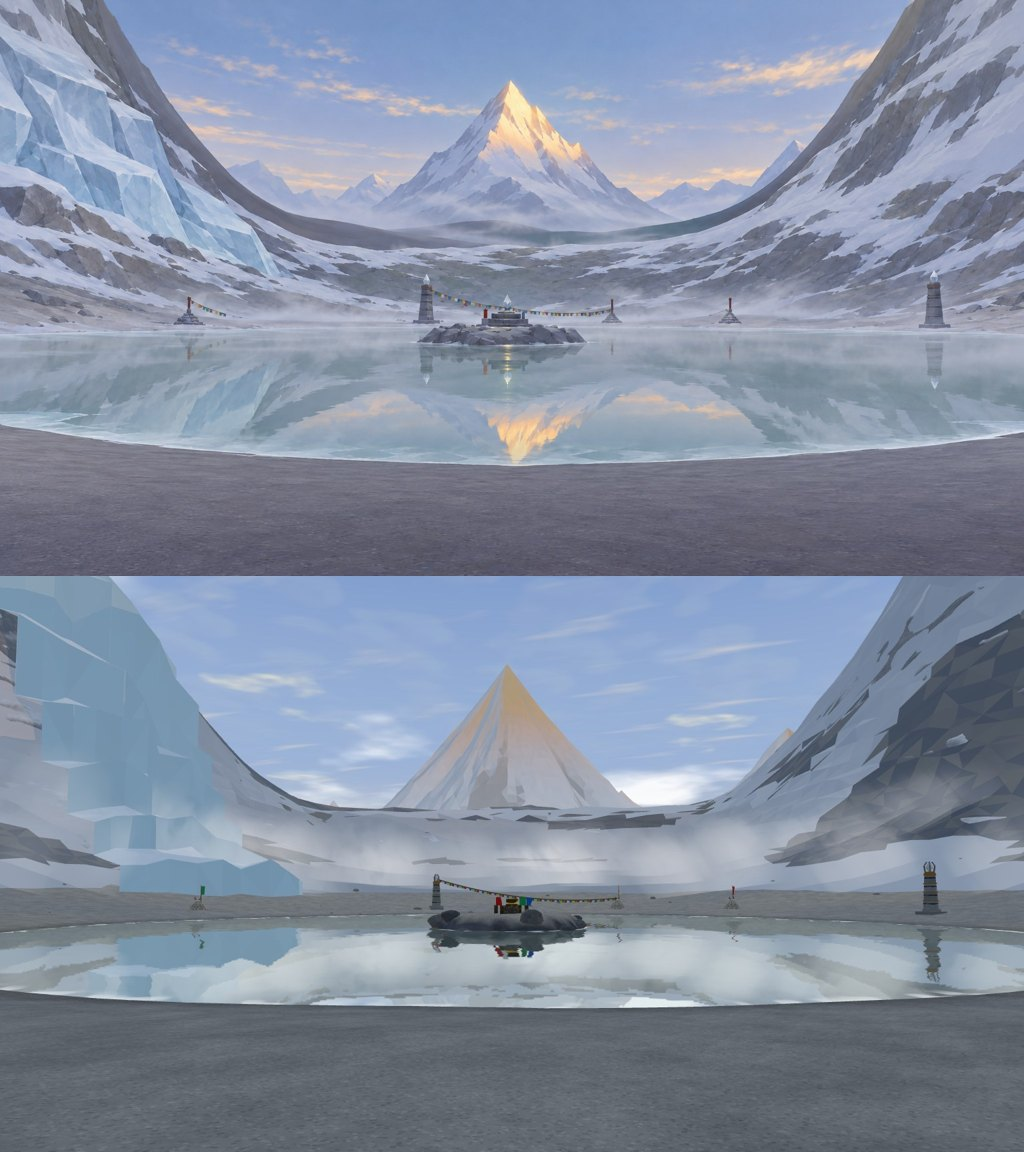
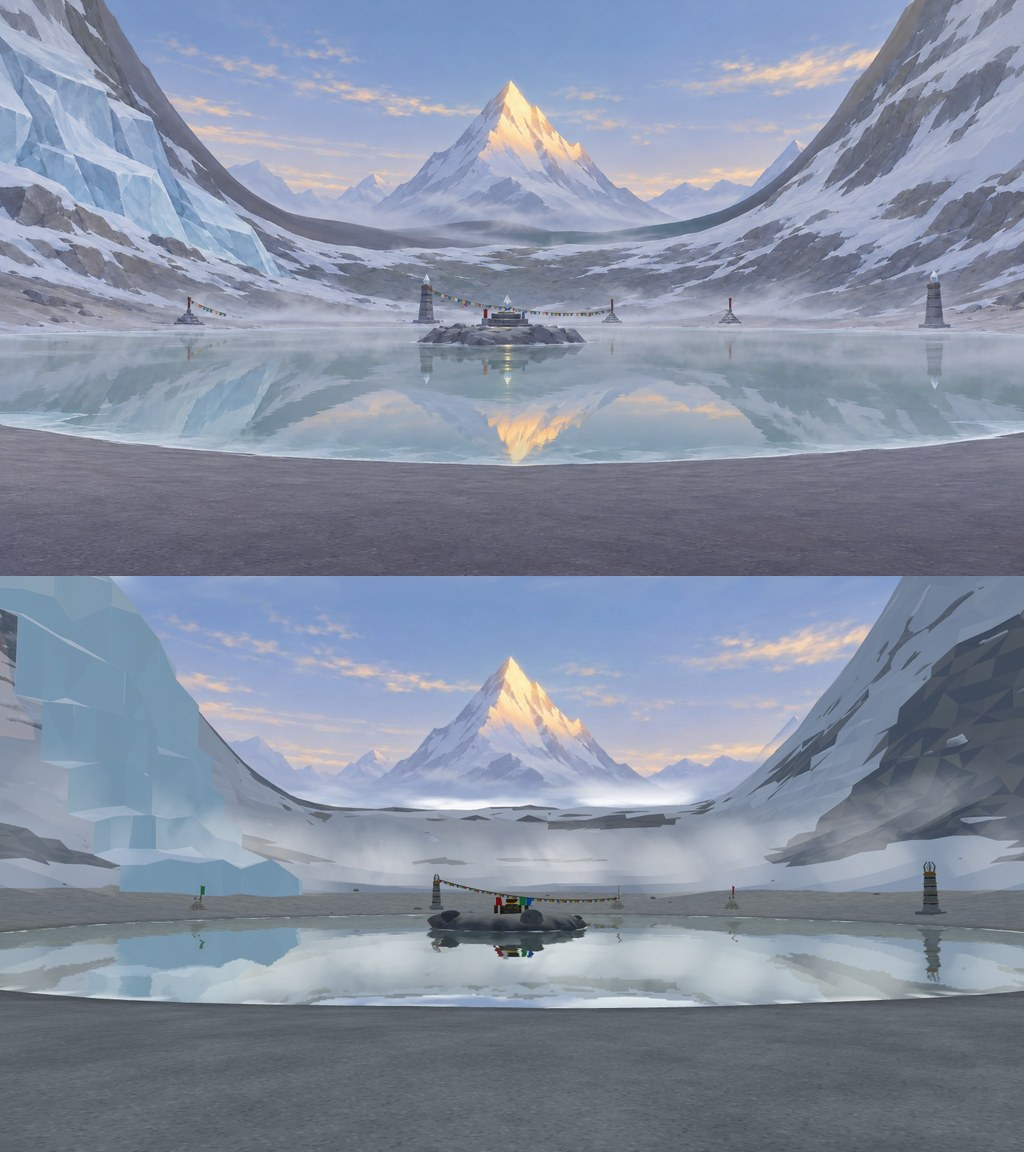
feat(plateau): 4-4 远山改成概念图绘景背景板——出生点逐像素对上概念图，东西岸换位不露缝
- farMatte.ts：按出生点相机把概念图上的远山和天反投影到 1.5 km 外的竖直面，不吃雾、不过色调映射，雷暴压暗
- tools/make_far_matte.py：裁远山、抠冰斗壁，两侧程序补画淡远山并各加宽 384 px
- 删掉 peak.ts 和神山方向的六座程序远山；天色取自画
- render_blockouts.mjs 加东西岸核对机位 4-4e / 4-4w；cdp.mjs 允许 file:// 页面读本地贴图

diff --git a/src/world/haizi/farMatte.ts b/src/world/haizi/farMatte.ts
@@ -1,0 +1,92 @@
+/**
+ * 4-4 神山海子的远山绘景（matte painting）：神山、两侧远峰和它们背后的天，直接用概念图上画好的那一块
+ * （docs/art/concepts/ch4-631/4-4_haizi_scene_v5.jpg，裁剪和抠透明见 tools/make_far_matte.py）。
+ *
+ * 远山走不到，又是画面 631 里的「一」——程序拼的山再怎么调也不像画，所以这里不再建模，贴一块绘景背景板：
+ * 概念图是在出生点白模上重绘的，相机参数已知（render_blockouts.mjs 的 VIEWS['4-4']），
+ * 把裁剪框里每个点按那台相机反投影到眼前 1.5 km 的竖直面上，背景板从出生点看就和概念图逐像素对齐；
+ * 可玩区只有半径 80 m，1.5 km 外的东西在湖岸上走动时视差不到 3°，看不出是一张板。
+ *
+ * 着色：画里已经有空气透视，所以不吃场景雾、不过色调映射；雷暴（WORLD_UNIFORMS.uStorm）时压暗去饱和，闪电时提亮。
+ * 湖面的平面反射会把它也画进去——概念图里湖中那道金色倒影就是它。
+ */
+import * as THREE from 'three';
+import { WORLD_UNIFORMS } from '../plateau/materials';
+
+export const MATTE = {
+  /** public/ 下的路径（运行时拼 BASE_URL） */
+  url: 'assets/environment/haizi/far_mountains_matte.webp',
+  /** 绘景在概念图（2048 × 1152）里的归一化范围：tools/make_far_matte.py 的 BOX 左右各加宽 PAD（可以超出 0..1，就是画框外的方向） */
+  u0: (256 - 384) / 2048, u1: (1792 + 384) / 2048, v0: 0, v1: 576 / 1152,   // 左右各加宽 384 px（make_far_matte.py 的 PAD）
+  /** 概念图那台相机：出生点眼睛、朝向（度）、竖直视角、画幅 */
+  eye: [-18, 3.5, 67.6] as const, yawDeg: -15, pitchDeg: 3, fovDeg: 50, aspect: 16 / 9,
+  /** 背景板离眼睛的水平距离（m）：在冰斗壁（440 m）和远景地形（1.4 km）之外 */
+  distance: 1500,
+  /** 网格细分：竖直面相对画面有一点仰角，分细一点，贴图和概念图逐点对得上 */
+  cols: 32, rows: 10,
+};
+
+export interface FarMatte {
+  mesh: THREE.Mesh;
+  /** 贴图加载完（截图脚本等它） */
+  ready: Promise<void>;
+}
+
+export function buildFarMatte(baseUrl: string): FarMatte {
+  const M = MATTE;
+  const cam = new THREE.PerspectiveCamera(M.fovDeg, M.aspect, 0.1, 10000);
+  cam.position.set(...M.eye);
+  cam.rotation.set(THREE.MathUtils.degToRad(M.pitchDeg), THREE.MathUtils.degToRad(M.yawDeg), 0, 'YXZ');
+  cam.updateMatrixWorld(true);
+  const eye = cam.position.clone();
+  const yaw = THREE.MathUtils.degToRad(M.yawDeg);
+  const fwd = new THREE.Vector3(-Math.sin(yaw), 0, -Math.cos(yaw));   // 水平朝前
+  const pos: number[] = [], uv: number[] = [], idx: number[] = [];
+  const p = new THREE.Vector3();
+  for (let r = 0; r <= M.rows; r++) for (let c = 0; c <= M.cols; c++) {
+    const s = c / M.cols, t = r / M.rows;                              // 贴图坐标（t 从上往下）
+    const u = M.u0 + (M.u1 - M.u0) * s, v = M.v0 + (M.v1 - M.v0) * t;  // 概念图里的位置
+    p.set(u * 2 - 1, 1 - v * 2, 0.5).unproject(cam).sub(eye).normalize();
+    const k = M.distance / p.dot(fwd);                                 // 射线打到眼前 distance 处的竖直面
+    pos.push(eye.x + p.x * k, eye.y + p.y * k, eye.z + p.z * k);
+    uv.push(s, 1 - t);
+  }
+  for (let r = 0; r < M.rows; r++) for (let c = 0; c < M.cols; c++) {
+    const a = r * (M.cols + 1) + c, b = a + 1, d = a + M.cols + 1, e = d + 1;
+    idx.push(a, d, b, b, d, e);
+  }
+  const g = new THREE.BufferGeometry();
+  g.setAttribute('position', new THREE.Float32BufferAttribute(pos, 3));
+  g.setAttribute('uv', new THREE.Float32BufferAttribute(uv, 2));
+  g.setIndex(idx);
+
+  const tex = new THREE.Texture();
+  tex.colorSpace = THREE.SRGBColorSpace;
+  tex.anisotropy = 4;
+  const mat = new THREE.MeshBasicMaterial({ map: tex, transparent: true, depthWrite: false, fog: false, toneMapped: false, side: THREE.DoubleSide });
+  mat.onBeforeCompile = (shader) => {
+    shader.uniforms.uStorm = WORLD_UNIFORMS.uStorm;
+    shader.uniforms.uFlash = WORLD_UNIFORMS.uFlash;
+    shader.fragmentShader = shader.fragmentShader
+      .replace('#include <common>', '#include <common>\nuniform float uStorm;\nuniform float uFlash;')
+      .replace('#include <map_fragment>', `#include <map_fragment>
+  // 雷暴：远山压暗、去饱和，沉进乌云里；闪电一亮
+  float gray = dot(diffuseColor.rgb, vec3(0.299, 0.587, 0.114));
+  diffuseColor.rgb = mix(diffuseColor.rgb, vec3(gray) * 0.42, uStorm * 0.85) + vec3(0.9, 0.85, 1.0) * uFlash * 0.18;`);
+  };
+  const mesh = new THREE.Mesh(g, mat);
+  mesh.name = 'far-mountains-matte';
+  mesh.renderOrder = -800;          // 透明队列里排在云天（−900）后面：盖住云；雾带（−5）、水面在它前面
+  mesh.frustumCulled = false;
+  mesh.visible = false;             // 贴图到了再显示
+  const ready = new Promise<void>((resolve) => {
+    if (typeof document === 'undefined') { resolve(); return; }
+    new THREE.ImageLoader().load(baseUrl + M.url, (img) => {
+      tex.image = img;
+      tex.needsUpdate = true;
+      mesh.visible = true;
+      resolve();
+    }, undefined, () => resolve());   // 加载失败：只是没有远山，场景照常
+  });
+  return { mesh, ready };
+}

diff --git a/src/world/haizi/spec.ts b/src/world/haizi/spec.ts
@@ -68,7 +68,8 @@ export const DAWN = {
   /** 地面色是雪地反上来的光：满是雪的冰斗里，立面和陡面不该发黑 */
   hemiSky: '#b4c4dc', hemiGround: '#a3a9b3', hemiIntensity: 1.9,
   fog: '#cdd6e1',
-  sky: { top: '#5a7ebf', mid: '#9bb3d7', horizon: '#ead8c2' },
+  /** 天顶 / 中段取自概念图的天（远山绘景的上沿渐隐进这片天，颜色要接得上） */
+  sky: { top: '#6587bf', mid: '#8aa2cc', horizon: '#d9cfc8' },
   /** 神山金顶：远山顶点色在 from 以上开始染、to 处最浓，只染朝太阳的那一面 */
   summit: { color: '#ffa443', from: 190, to: 470, strength: 1 },
   /** 云影压低：开阔的碎石岸上斑驳的明暗会给怪打掩护（composition.md 第 6 节第 4 条） */
@@ -99,20 +100,14 @@ export const SACRED_PEAK = { x: 360, z: -1390, height: 640, radius: 700 };
 /** 冰斗缺口的方位（从湖心看神山，弧度：0 = 北，顺时针为正） */
 export const PEAK_BEARING = Math.atan2(SACRED_PEAK.x, -SACRED_PEAK.z);
 
+// 神山方向（北偏东 ±35°）的远山全在绘景里（farMatte.ts），这里只留其他方向冰斗壁后面露出来的几座
 export const PEAKS: PeakSpec[] = [
   { x: SACRED_PEAK.x, z: SACRED_PEAK.z, height: SACRED_PEAK.height, radius: SACRED_PEAK.radius, ridges: 4, sharp: 1.95, seed: 21.4, snow: 0.42, green: 0 },
-  { x: -420, z: -1250, height: 420, radius: 620, ridges: 4, sharp: 1.35, seed: 22.1, snow: 0.38, green: 0 },
-  { x: 980, z: -1150, height: 460, radius: 640, ridges: 3, sharp: 1.4, seed: 23.7, snow: 0.36, green: 0 },
   { x: 1250, z: -100, height: 380, radius: 620, ridges: 4, sharp: 1.3, seed: 24.4, snow: 0.42, green: 0.1 },
   { x: -1250, z: -300, height: 420, radius: 680, ridges: 4, sharp: 1.3, seed: 25.2, snow: 0.4, green: 0.1 },
   { x: -1000, z: 1000, height: 360, radius: 680, ridges: 4, sharp: 1.25, seed: 26.6, snow: 0.45, green: 0.2 },
   { x: 900, z: 1100, height: 320, radius: 680, ridges: 5, sharp: 1.15, seed: 27.9, snow: 0.5, green: 0.3 },
   { x: 0, z: 1500, height: 260, radius: 720, ridges: 5, sharp: 1.0, seed: 28.3, snow: 0.7, green: 0.5 },
-  // 神山两侧更远、更矮的几座（概念图里从垭口看过去，主峰左右一层层退进雾里）
-  { x: -60, z: -1900, height: 360, radius: 560, ridges: 3, sharp: 1.6, seed: 29.1, snow: 0.3, green: 0 },
-  { x: 820, z: -1720, height: 400, radius: 600, ridges: 4, sharp: 1.5, seed: 30.4, snow: 0.3, green: 0 },
-  { x: 1180, z: -1500, height: 330, radius: 560, ridges: 3, sharp: 1.4, seed: 31.7, snow: 0.32, green: 0 },
-  { x: -420, z: -2050, height: 300, radius: 600, ridges: 4, sharp: 1.4, seed: 32.2, snow: 0.3, green: 0 },
 ];
 
 /**

diff --git a/src/world/haizi/scene.ts b/src/world/haizi/scene.ts
@@ -17,7 +17,7 @@ import { GrassField, buildStaticScatter } from '../plateau/scatter';
 import type { CollisionWorld } from '../plateau/walker';
 import { buildCliffs } from './cliffs';
 import { buildGlacier } from './glacier';
-import { buildSacredPeak } from './peak';
+import { buildFarMatte } from './farMatte';
 import { DAWN, FLAG_LINES, ISLAND, LAKE, PEAKS, PILLARS, PLACEMENTS, SACRED_PEAK, type PillarSpec } from './spec';
 import { buildFarTerrain, type HaiziTerrain } from './terrain';
 
@@ -327,6 +327,8 @@ export interface HaiziScene {
   grass: GrassField;
   scatter: ReturnType<typeof buildStaticScatter>;
   icons: MapIcon[];
+  /** 远山绘景加载完（截图脚本等它）；失败也会变 true，只是没有远山 */
+  farLoaded: boolean;
 }
 
 /**
@@ -345,10 +347,11 @@ export function buildHaizi(scene: THREE.Scene, terrain: HaiziTerrain, world: Col
   const sky = buildSky();
   dawnSky(sky);
   const skyLin = linearSky(sky);
-  // 神山单独做（peak.ts），远山列表里的那一座不再生成
+  // 神山和它两侧的远峰是一块绘景背景板（farMatte.ts，取自概念图），远山列表里的神山不再生成
   const mountains = buildMountains(PEAKS.filter(p => p.x !== SACRED_PEAK.x || p.z !== SACRED_PEAK.z));
   summitGlow(mountains);
-  scene.add(sky, skyLin, mountains, buildSacredPeak(), buildFarTerrain(terrain), buildCliffs(), buildGlacier());
+  const far = buildFarMatte(`${import.meta.env?.BASE_URL ?? '/'}`);
+  scene.add(sky, skyLin, mountains, far.mesh, buildFarTerrain(terrain), buildCliffs(), buildGlacier());
 
   const lake = new LakeSurface(terrain, reflectW, reflectH);
   // 反射那一遍换成线性色的天空，渲染完换回来
@@ -385,5 +388,7 @@ export function buildHaizi(scene: THREE.Scene, terrain: HaiziTerrain, world: Col
   scene.add(scatter.group);
   const grass = new GrassField(terrain, occupied);
   scene.add(grass.group);
-  return { sky, lake, pillars, conductors, anim, flags, grass, scatter, icons };
+  const out: HaiziScene = { sky, lake, pillars, conductors, anim, flags, grass, scatter, icons, farLoaded: false };
+  void far.ready.then(() => { out.farLoaded = true; });
+  return out;
 }

diff --git a/docs/art/concepts/ch4-631/tools/make_far_matte.py b/docs/art/concepts/ch4-631/tools/make_far_matte.py
@@ -1,0 +1,121 @@
+"""4-4 神山海子的远山绘景：从概念图裁出远山那一块（带画好的天），两侧冰斗壁和谷底抠成透明，上沿渐隐。
+    python docs/art/concepts/ch4-631/tools/make_far_matte.py
+输出 public/assets/environment/haizi/far_mountains_matte.webp（带透明通道）。
+抠掉的冰斗壁和左右各加宽的 PAD 补画成天（按行取画里的天色）和接着往两边走的淡远山（照画里两侧远峰的样子程序画）：玩家在湖岸上换位置时近处的 3D 冰斗壁和远处背景板错开，边和抠掉的地方也不会露缝。
+裁剪框（概念图像素）和出生点相机一起决定背景板在世界里的位置：src/world/haizi/farMatte.ts 的 MATTE 常量要和这里的 BOX 一致。
+"""
+from pathlib import Path
+
+import numpy as np
+from PIL import Image, ImageDraw, ImageFilter
+from scipy.ndimage import gaussian_filter
+
+ROOT = Path(__file__).resolve().parents[5]
+SRC = ROOT / "docs/art/concepts/ch4-631/4-4_haizi_scene_v5.jpg"
+OUT = ROOT / "public/assets/environment/haizi/far_mountains_matte.webp"
+BOX = (256, 0, 1792, 576)            # 概念图 2048×1152 里的像素
+# 保留区（裁剪区像素）：两侧冰斗壁山脊线以上、山脚雾带以上。描线往天空那侧收了几个像素，画里的深色山脊不会在 3D 冰斗壁上方露一条边
+KEEP = [(0, 0), (0, 74), (86, 204), (152, 302), (220, 376), (306, 420), (424, 436), (768, 446), (1100, 438), (1246, 392),
+        (1324, 326), (1392, 260), (1458, 166), (1536, 58), (1536, 0)]
+
+
+PAD = 384                            # 左右各加宽这么多像素（概念图像素）：换个位置看，背景板的边也藏在冰斗壁后面
+HORIZON = 446                        # 远山山脚（雾带）在裁剪区里的行
+
+
+def fill_sky(rgb: np.ndarray, keep: np.ndarray) -> np.ndarray:
+    """抠掉和加宽的地方补天：保留区的颜色做归一化卷积往外延（横向拉得远、竖向只拉几个像素——天和云都是横着走的），
+    由细到粗叠：贴着保留区的地方接上画里那一片的颜色，离得远的地方是整行的平均天色。"""
+    h, W, _ = rgb.shape
+    est = None
+    for sx, sy in ((1200, 12), (420, 9), (160, 6), (60, 4), (20, 3)):
+        den = gaussian_filter(keep, (sy, sx), mode="nearest")
+        num = np.stack([gaussian_filter(rgb[..., c] * keep, (sy, sx), mode="nearest") for c in range(3)], -1)
+        cur = num / np.maximum(den, 1e-6)[..., None]
+        if est is None:
+            est = np.where((den > 1e-4)[..., None], cur, np.nan)
+            continue
+        wgt = np.clip(den / 0.3, 0, 1)[..., None]
+        est = est * (1 - wgt) + cur * wgt
+    # 山脚往下没有保留区的行：用上面最后一行
+    for y in range(1, h):
+        bad = np.isnan(est[y, :, 0])
+        est[y, bad] = est[y - 1, bad]
+    return np.nan_to_num(est, nan=200.0)
+
+
+def value_noise(shape: tuple[int, int], cell: int, seed: int) -> np.ndarray:
+    """0..1 的平滑噪声（随机格子双三次放大）"""
+    rng = np.random.default_rng(seed)
+    h, w = shape
+    g = rng.random((h // cell + 3, w // cell + 3)).astype(np.float32)
+    im = Image.fromarray((g * 255).astype(np.uint8)).resize(((w // cell + 3) * cell, (h // cell + 3) * cell), Image.BICUBIC)
+    return np.asarray(im).astype(np.float32)[:h, :w] / 255
+
+
+def ranges(sky: np.ndarray) -> np.ndarray:
+    """冰斗壁后面接着往两边走的远山：照画里两侧远峰的样子——尖顶、宽缓的山肩、淡紫白、右坡受光偏暖、左坡背光偏冷、
+    山脚没进雾里、雾很重（反差比主峰低得多）。两层：远的一层矮、雾重；近的一层高一点。只用在抠掉和加宽的地方（保留区里是原画）。"""
+    h, W, _ = sky.shape
+    X = np.arange(W, dtype=np.float32) - PAD              # 裁剪区坐标
+    Y = np.arange(h, dtype=np.float32)[:, None]
+    out = sky.copy()
+    rng = np.random.default_rng(44)
+    lit, shade = np.array([236, 229, 232], np.float32), np.array([182, 189, 212], np.float32)
+    mist = np.array([212, 217, 231], np.float32)
+    streak = value_noise((h, W), 14, 8)                       # 大块的雪坡 / 岩脊明暗
+    # 一座座山单独画、由远到近叠（前面的挡后面的），山脊线从峰尖斜着往下走（受光坡 / 背光坡的分界），不是一条竖线
+    peaks = []
+    for layer, (n, tops, haze) in enumerate([(8, (338, 404), 0.6), (6, (268, 350), 0.4)]):
+        for side in (0, 1):
+            lo, hi = ((-PAD - 80, 240) if side == 0 else (1260, 1536 + PAD + 80))
+            for px in rng.uniform(lo, hi, n // 2):
+                peaks.append((layer, px, rng.uniform(*tops), rng.uniform(0.85, 1.25, 2), rng.uniform(0.3, 0.5, 2),
+                              rng.uniform(30, 60), haze + rng.uniform(-0.05, 0.05), rng.uniform(-0.45, 0.45), rng.integers(1 << 30)))
+    for layer, px, top, s1, s2, knee, haze, rd, seed in peaks:
+        d = np.abs(X - px)
+        sl = np.where(X < px, s1[0], s1[1]); sh = np.where(X < px, s2[0], s2[1])
+        yl = top + np.where(d < knee, d * sl, knee * sl + (d - knee) * sh)     # 尖顶一段陡，往下是缓的山肩
+        yl = yl + (value_noise((1, W), 18, int(seed % 997))[0] - 0.5) * 10 * np.clip(d / 25, 0, 1)   # 山脊线上的小峰，峰尖不动
+        below = (Y >= yl[None, :]) & (Y < HORIZON + 40)
+        if not below.any():
+            continue
+        xb = px + (Y - top) * rd + (value_noise((h, 1), 20, int(seed % 991))[:, :1] - 0.5) * 14   # 主山脊往下的走向
+        t = np.clip((X[None, :] - xb) / 5 + 0.5, 0, 1)[..., None]                               # 右坡受光
+        face = (shade * (1 - t) + lit * t) * (0.96 + 0.07 * streak[..., None])
+        foot = np.clip((Y - (HORIZON - 80)) / 80, 0, 1)[..., None]     # 山脚没进雾
+        body = face * (1 - foot) + mist * foot
+        body = body * (1 - haze) + sky * haze
+        out = np.where(below[..., None], body, out)
+    return np.asarray(Image.fromarray(out.clip(0, 255).astype(np.uint8)).filter(ImageFilter.GaussianBlur(1.0))).astype(np.float32)
+
+
+def main() -> None:
+    im = Image.open(SRC).convert("RGB").crop(BOX)
+    w, h = im.size
+    mask = Image.new("L", (w, h), 0)
+    ImageDraw.Draw(mask).polygon(KEEP, fill=255)
+    rgb = np.asarray(im).astype(np.float32)
+    # 保留区往里收 14 px 再羽化：画里冰斗壁那道深色山脊线不渗进来；取色只用往里收 16 px 的像素
+    soft = mask.filter(ImageFilter.MinFilter(29)).filter(ImageFilter.GaussianBlur(6))
+    inner = mask.filter(ImageFilter.MinFilter(33))
+    W = w + 2 * PAD
+    src = np.zeros((h, W, 3), np.float32); src[:, PAD:PAD + w] = rgb
+    kin = np.zeros((h, W), np.float32); kin[:, PAD:PAD + w] = np.asarray(inner).astype(np.float32) / 255
+    wide = ranges(fill_sky(src, kin))
+    k = np.zeros((h, W), np.float32)
+    k[:, PAD:PAD + w] = np.asarray(soft).astype(np.float32) / 255
+    wide = src * k[..., None] + wide * (1 - k[..., None])
+    # 透明：上沿 0–12% 渐隐进程序天空；山脚雾带（400–450 px）往下透明（冰碛垄和远谷交给场景里的 3D）；最外侧 280 px 渐隐
+    y = np.linspace(0, 1, h)[:, None]
+    x = np.arange(W)[None, :]
+    a = np.clip(y / 0.12, 0, 1) * (1 - np.clip((y * h - 400) / 50, 0, 1))
+    a = a * np.clip(x / 280, 0, 1) * np.clip((W - 1 - x) / 280, 0, 1)
+    rgba = np.dstack([wide.clip(0, 255).astype(np.uint8), (a * 255).astype(np.uint8)])
+    OUT.parent.mkdir(parents=True, exist_ok=True)
+    Image.fromarray(rgba, "RGBA").save(OUT, "WEBP", quality=92, alpha_quality=90, method=6)
+    print(OUT.relative_to(ROOT), f"{OUT.stat().st_size // 1024} KB", (W, h))
+
+
+if __name__ == "__main__":
+    main()

diff --git a/docs/art/concepts/ch4-631/README.md b/docs/art/concepts/ch4-631/README.md
@@ -300,20 +300,21 @@
 ## 5. 落到网页版的顺序（建议）
 
 1. **4-4**：最小。地形、湖、雷神都在 `src/world/haizi/`，只换 9 种摆件 + 接 `Atmosphere`；先出石柱、雷晶、祭坛三件的四视图。
-   - **已做（2026-11-19 / 20）：远中景和光照概念图落进检视页**（`plateau-lab.html?map=4-4`），对照图 `4-4_haizi_concept_vs_web.jpg`（上 = 概念图、下 = 网页场景 `4-4_haizi_web_v2.jpg`，同一机位）。
-     第一遍只对上了布局（用户：「只是布局像，很多细节都不像」），第二遍逐块对着改：
+   - **已做（2026-11-19 / 20）：远中景和光照概念图落进检视页**（`plateau-lab.html?map=4-4`），对照图 `4-4_haizi_concept_vs_web.jpg`（上 = 概念图、下 = 网页场景 `4-4_haizi_web_v3.jpg`，同一机位）。
+     第一遍只对上了布局（用户：「只是布局像，很多细节都不像」），第二遍逐块对着改，第三遍（11-20，用户：「先把远处的雪山还原」）远山改成绘景：
      | 部位 | 概念图 | 做法 |
      |---|---|---|
      | 冰斗壁 | 一片片中灰岩板夹积雪、有层理 | `cliffs.ts`：可玩区外（86 m 往外）盖一层程序切面壳，高度在地形上加层理台阶和岩脊；岩 / 雪按大块噪声 + 顺等高线的层理带分（不按单个三角面的朝向，否则碎成玻璃渣） |
      | 冰舌 | 台阶状冰崩，大小不一的冰体，顶白立面青 | `glacier.ts`：一级级的冰面比山坡缓、到下一级前是冰崖，冰崖上沿按列高低错开；冰加一点冷色自发光（透光） |
-     | 神山 | 主棱正对玩家，左面冷、右上半截金，岩肋 | `peak.ts` 单独做（不用 4-1 共用的远山生成器）：四棱金字塔、主棱朝出生点、面上次级岩肋，朝阳面染金、背阳面偏冷，光烘进顶点色 |
-     | 远山 | 主峰两侧一层层退进雾里 | `spec.ts` PEAKS 补四座更远更矮的 |
+     | 神山和远山 | 主棱正对玩家、金顶、岩肋；主峰两侧的远峰一层层退进雾里；晨光丝云 | **绘景背景板**（`farMatte.ts`，第三遍）：程序拼的山怎么调都不像画，远山又走不到，所以直接用概念图上画好的那一块。`tools/make_far_matte.py` 裁出远山和天 → 抠掉两侧冰斗壁和谷底 → 抠掉的地方和左右各加宽的 384 px 补画（天按行用归一化卷积把画里的颜色横着往外延；远山照画里两侧远峰的样子程序画：尖顶、宽山肩、右坡暖左坡冷、山脚没进雾）→ 上沿渐隐进程序天空、山脚雾带往下透明 → `public/assets/environment/haizi/far_mountains_matte.webp`（50 KB）。运行时按出生点相机（`VIEWS['4-4']`）把每个像素反投影到 1.5 km 外的竖直面上，出生点看和概念图逐像素对齐；不吃雾、不过色调映射，雷暴时压暗去饱和，湖面反射照常画进去。原来的 `peak.ts` 和神山方向的六座程序远山删掉 |
      | 光 | 冰斗里是冷调天光，立面不发黑 | `DAWN`：太阳东南偏南仰角 7°、强度 0.55；半球光地面色换成雪地反光的浅灰 |
      | 湖 | 镜面 | 倒影占比加大、涟漪减半，湖色降一半饱和 |
      | 天 | 几缕晨光丝云 | 接 `CloudSky`（低云 0.08、中 0.22、高 0.5） |
      | 雾 | 远岸和冰斗脚一圈低雾 | `MistStreams`：湖北半边贴水面一层、冰斗脚两圈（都在玩家和雷神之间以外） |
      | 湖岸、柱、岛 | 平整碎石滩；淡色不发光的晶石；深色石堆 | 湖岸和冰斗壁不长草；晶石平时淡灰、充能才亮紫红，柱身紫线和铜箍压暗；岛上一圈灰色大石 |
-     入场点 E2「冰舌脚」随冰舌挪到 (−40, −66)，reach_probe 全部通过。631：低饱和 63%、中间调 68%（首领场有意的窄明度带）、安静 26%。
+     入场点 E2「冰舌脚」随冰舌挪到 (−40, −66)，reach_probe 全部通过。631（第三遍）：低饱和 65%、中间调 64%（首领场有意的窄明度带）、安静 24%；概念图本身 57% / 75% / 13%。
+   - **绘景的换位核对**：`4-4_haizi_shore_views.jpg`（左 = 西岸 (−62, 10)、右 = 东岸 (62, 12)）。湖岸上走动时近处的 3D 冰斗壁和 1.5 km 外的板错开，冰斗壁后面露出来的是补画的远山和天，没有缝、没有空天；
+     出图：`render_blockouts.mjs 4-4 4-4e 4-4w --out <目录>`（核对机位必须带 --out）。改了 `make_far_matte.py` 的 `BOX` / `PAD`，`farMatte.ts` 的 `MATTE.u0 / u1` 要一起改；动了出生点相机，`MATTE.eye / yawDeg / pitchDeg / fovDeg` 要和 `VIEWS['4-4']` 一致。
    - 还和概念图不一样的：湖心岛上还是 4-1 共用的灵火坛（彩色），概念图是三级石台 + 晶石——要换成套件表第 3 件；石柱、玛尼堆、巨石也还是程序白模（套件表第 1–9 件 → 四视图 → Tripo）；
      湖面倒影里的金顶不明显（出生点眼高只有 1.6 m，倒影被湖心岛和远岸挡住大半）；整体色调比概念图冷一点；左壁山脊线没有概念图那么锐。
 2. **4-2**：`src/world/gorge/` 的地形和过河方式都在，换 12 种摆件；把 3.1 的波次、驻守点、入场点写进 `spec.ts`。
@@ -328,9 +329,11 @@ python docs/art/concepts/ch4-631/tools/route_maps.py                          # 
 python docs/art/concepts/ch4-631/tools/route_check_4A.py                      # 4-A 纸面路线检查
 node scripts/plateau/reach_probe.mjs 4-2|4-4                                  # 4-2 / 4-4 真地形可达性
 python scripts/unity/composition_check.py <图或目录> --out <目录>               # 631 自检
+python docs/art/concepts/ch4-631/tools/make_far_matte.py                      # 4-4 远山绘景（概念图 → public/assets/environment/haizi/）
 ```
 
 - 机位在 `render_blockouts.mjs` 的 `VIEWS`；点位和路线在同一个文件里（4-2 / 4-4 抄 spec.ts，4-A 和 `route_check_4A.py` 同一组），改了要两边一起改。
 - 重绘的提示词：`prompts/*_paintover.txt`（白模 + 套件表）、`*_fix.txt`（去掉多画的东西）、`*_grade.txt`（只调颜色和明暗）。都是「图 1 = 要改的画，图 2 = 白模」，形状以白模为准。
-- 出图调 `art/pipeline/lib/openai_image.py` 的 `generate` / `edit`。本机系统环境变量里还有一把没额度的旧 `OPENAI_API_KEY`，会盖掉 `.env` 里的新 key，调用前先把 `.env` 的值写进 `os.environ`。
+- 出图调 `art/pipeline/lib/openai_image.py` 的 `generate` / `edit`。本机系统环境变量里还有一把没额度的旧 `OPENAI_API_KEY`，会盖掉 `.env` 里的新 key，调用前先把 `.env` 的值写进 `os.environ`。2026-11-20 起 `.env` 里那把也没额度了（`credit_balance_exhausted`），4-4 远山绘景改成直接从概念图裁、程序补画；`prompts/B_4-4_far_mountains_matte.txt` 是让模型往两边扩画全景的提示词，有额度了可以换掉程序补的那两段。
+- 4-4 远山绘景是运行时加载的贴图：`render_blockouts.mjs` 把 `public/assets/environment/haizi/` 拷到页面旁边、等 `arena.farLoaded`；`cdp.mjs` 带 `--allow-file-access-from-files`，不然 file:// 页面上 three 的加载器（带 crossOrigin）拿不到图。
 - 无头 Chromium 在机器内存紧时偶尔起不来，`render_blockouts.mjs` 会重试三次；跑完如果留下 ms-playwright 的 chrome.exe，手动结束。
